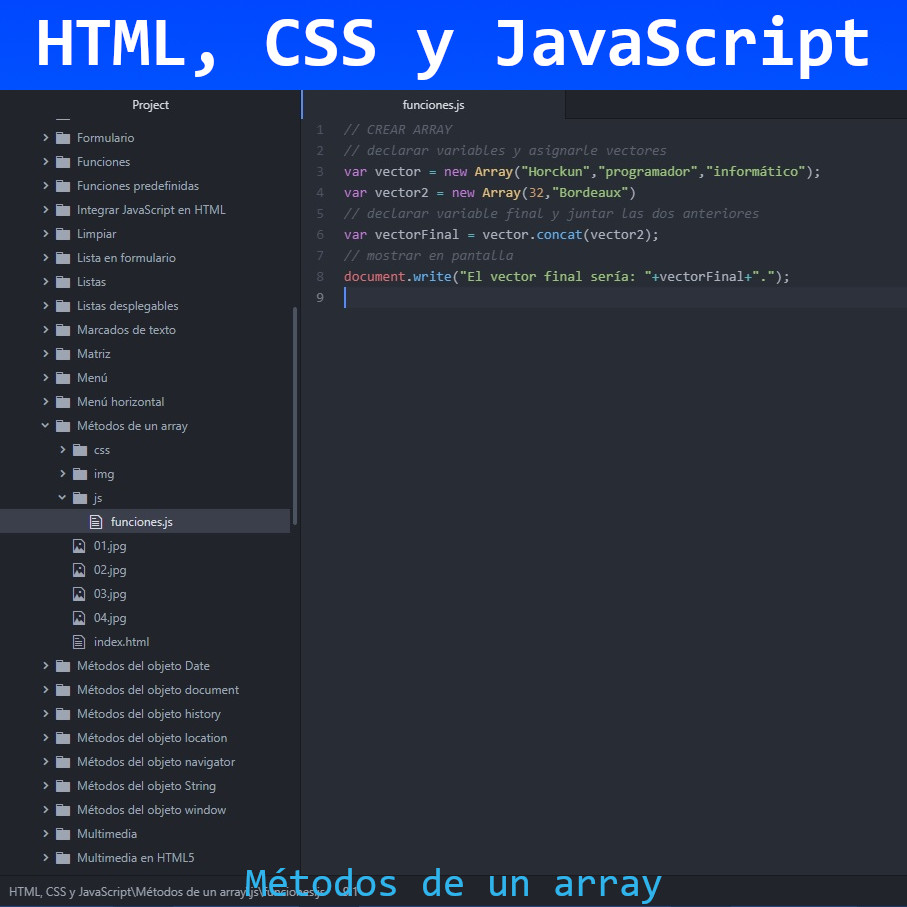
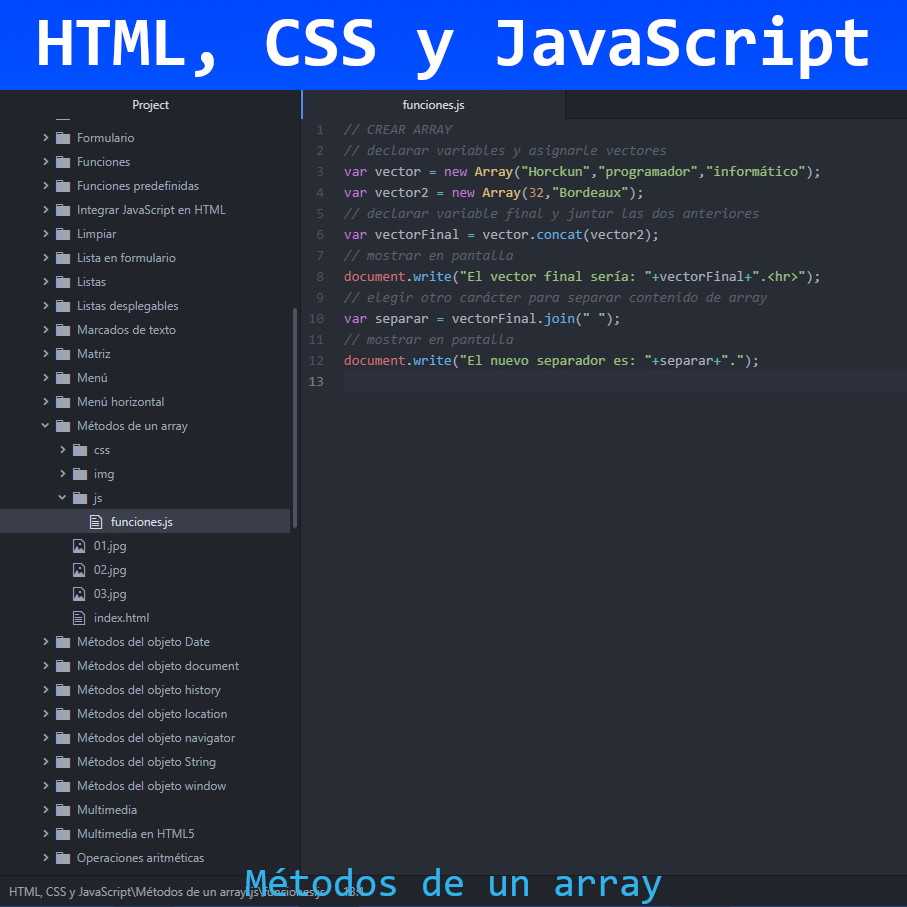
Métodos del objeto Array
Métodos del objeto Array en JavaScript

diff --git a/HTML, CSS y JavaScript/Métodos de un array/js/funciones.js b/HTML, CSS y JavaScript/Métodos de un array/js/funciones.js
@@ -1,8 +1,12 @@
 // CREAR ARRAY
 // declarar variables y asignarle vectores
 var vector = new Array("Horckun","programador","informático");
-var vector2 = new Array(32,"Bordeaux")
+var vector2 = new Array(32,"Bordeaux");
 // declarar variable final y juntar las dos anteriores
 var vectorFinal = vector.concat(vector2);
 // mostrar en pantalla
-document.write("El vector final sería: "+vectorFinal+".");
+document.write("El vector final sería: "+vectorFinal+".<hr>");
+// elegir otro carácter para separar contenido de array
+var separar = vectorFinal.join(" ");
+// mostrar en pantalla
+document.write("El nuevo separador es: "+separar+".");
